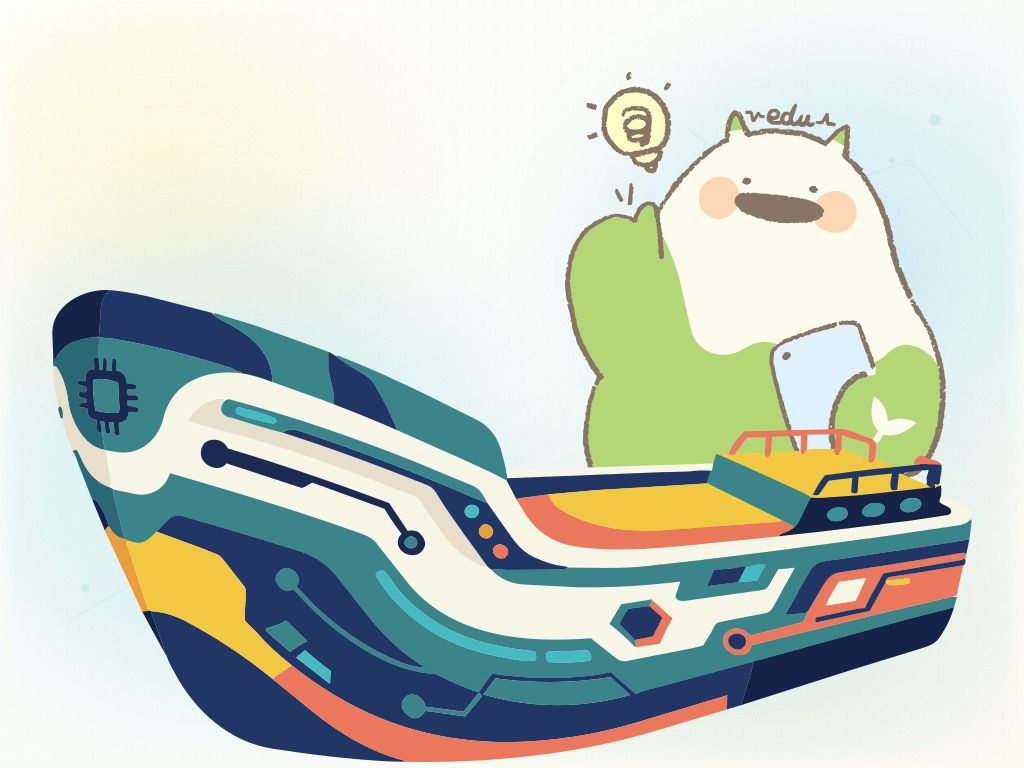
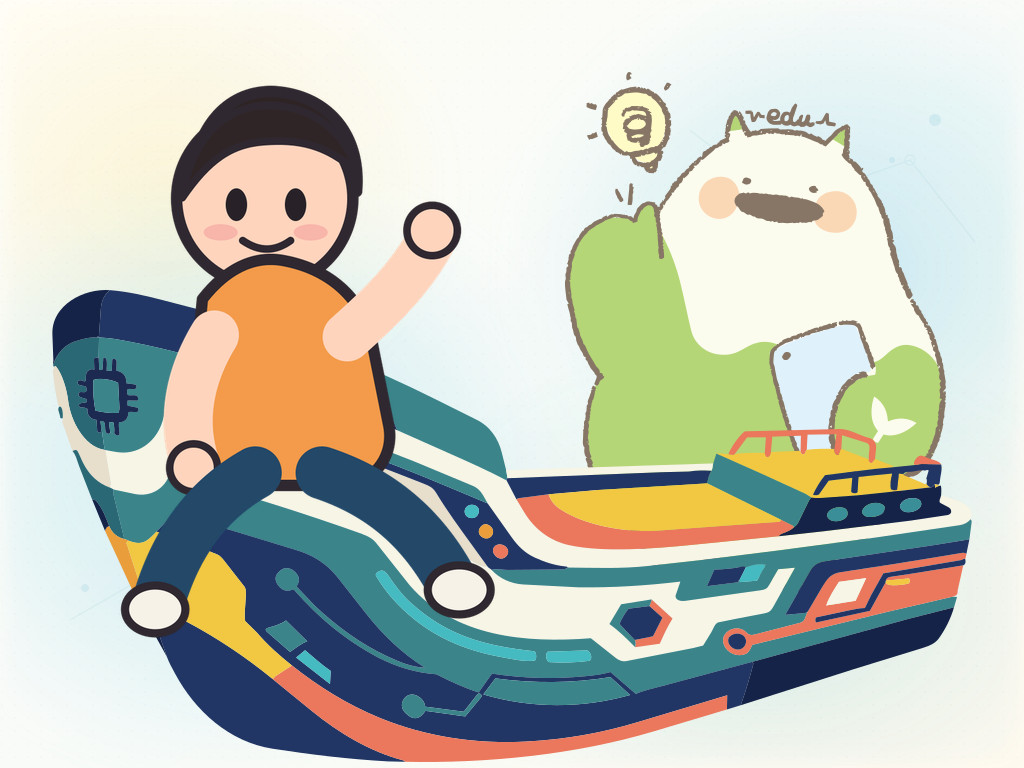
更新人物生成V4

diff --git a/index.html b/index.html
@@ -155,7 +155,7 @@
         const SCENES = [{
             id: "digital-ark-green",
             name: { zh: "與綠色 IP 共乘數位方舟", jp: "緑のキャラクターとデジタル方舟", en: "Digital Ark with Green IP" },
-            guide: { zh: "請正面看鏡頭、自然微笑；AI 只繪製您的 Q 版人物，再與官方綠色 IP 及方舟固定合成。", jp: "正面を向いて自然に笑ってください。AIは人物のみを描き、公式キャラクターと方舟を固定合成します。", en: "Face the camera and smile naturally. AI draws only your chibi portrait, then composites it with the fixed official IP and ark." },
+            guide: { zh: "請正面看鏡頭、自然微笑；AI 會將您轉為坐在船緣、向綠色 IP 揮手的 Q 版人物，官方 IP 與方舟不會被重新繪製。", jp: "正面を向いて自然に笑ってください。AIは船縁に座って公式キャラクターへ手を振る人物だけを描き、IPと方舟は描き直しません。", en: "Face the camera and smile naturally. AI turns only you into a chibi guest seated on the rim and waving to the official IP; the IP and ark are never redrawn." },
             preview: "assets/fixed-layer-preview.jpg"
         }];
 
@@ -188,8 +188,8 @@
                     "啟動視覺網路模組",
                     "正在辨識人物外觀特徵",
                     "AI 正在繪製 Q 版人物",
-                    "人物去背與乘坐定位",
-                    "疊合官方 IP 與固定方舟"
+                    "固定坐姿與安全區定位",
+                    "疊合原始 IP 與官方方舟"
                 ],
                 loadingSubTexts: [
                     "系統載入中...",
@@ -496,7 +496,7 @@
                                             <div className="flex items-center justify-between gap-4 px-2 pb-1">
                                                 <div>
                                                     <span className="text-ai-cyan text-lg sm:text-2xl font-black block">{scene.name[lang]}</span>
-                                                    <span className="text-slate-300 text-xs sm:text-base">同坐方舟、靠近合影，不安排牽手或擊掌</span>
+                                                    <span className="text-slate-300 text-xs sm:text-base">坐在船緣向 IP 揮手，角色與船身皆保留官方原稿</span>
                                                 </div>
                                                 <i className="fa-solid fa-circle-check text-ai-cyan text-2xl"></i>
                                             </div>
